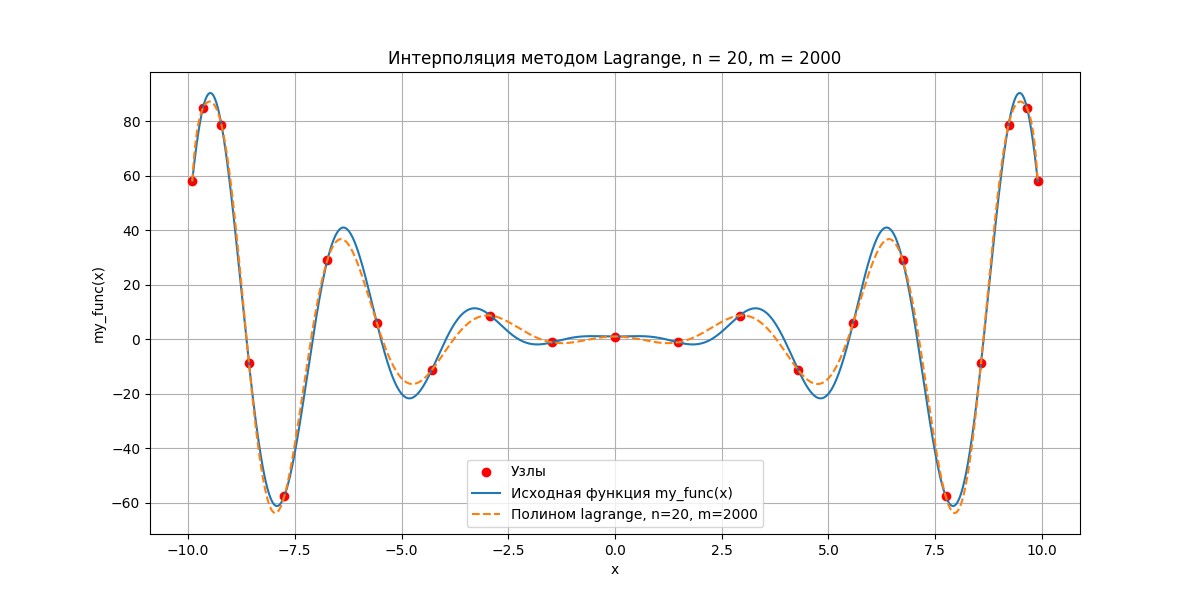
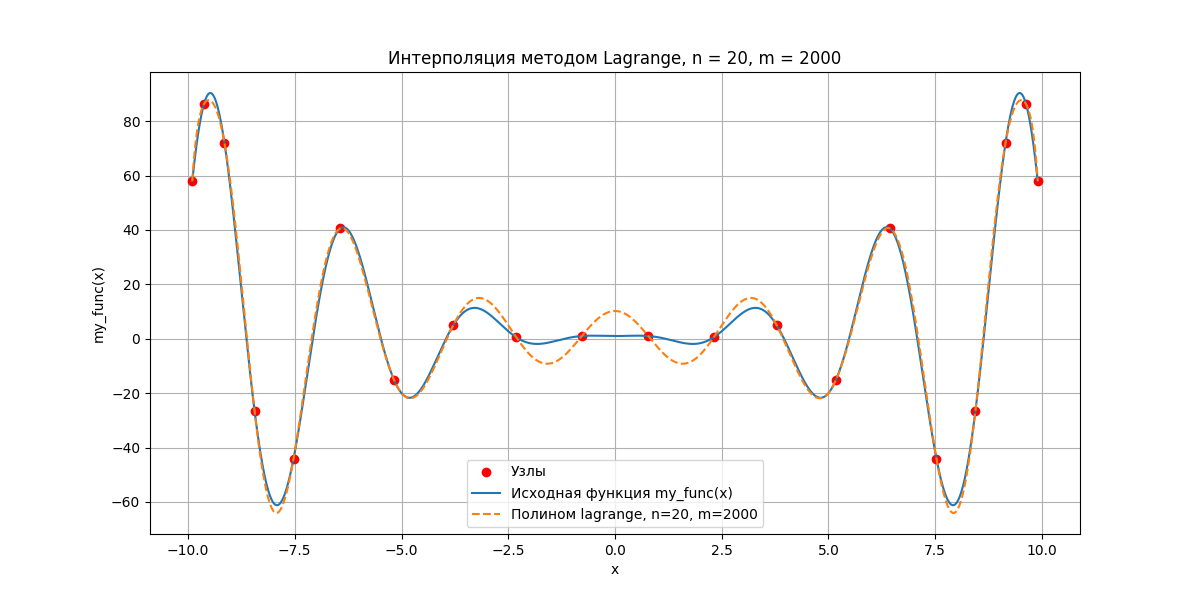
First commit

diff --git a/task4.py b/task4.py
@@ -46,8 +46,8 @@ def gaussian_elimination(A, b):
 # Распределения ////////////////////////////////////////////////////////////////////////////////////////////////////// #
 def chebyshev_distributed_nodes(a, b, n):
     """ Генерация узлов Чебышёва на интервале [a, b]. """
-    i = np.arange(0, n+1)
-    nodes = 0.5 * (b - a) * np.cos((2 * i + 1) * np.pi / (2 * (n + 1))) + 0.5 * (b + a)
+    i = np.arange(0, n)  # здесь n кол-во узлов, а не интервалов
+    nodes = 0.5 * (b - a) * np.cos((2 * i + 1) * np.pi / (2 * n)) + 0.5 * (b + a)
     return np.sort(nodes)
 
 
